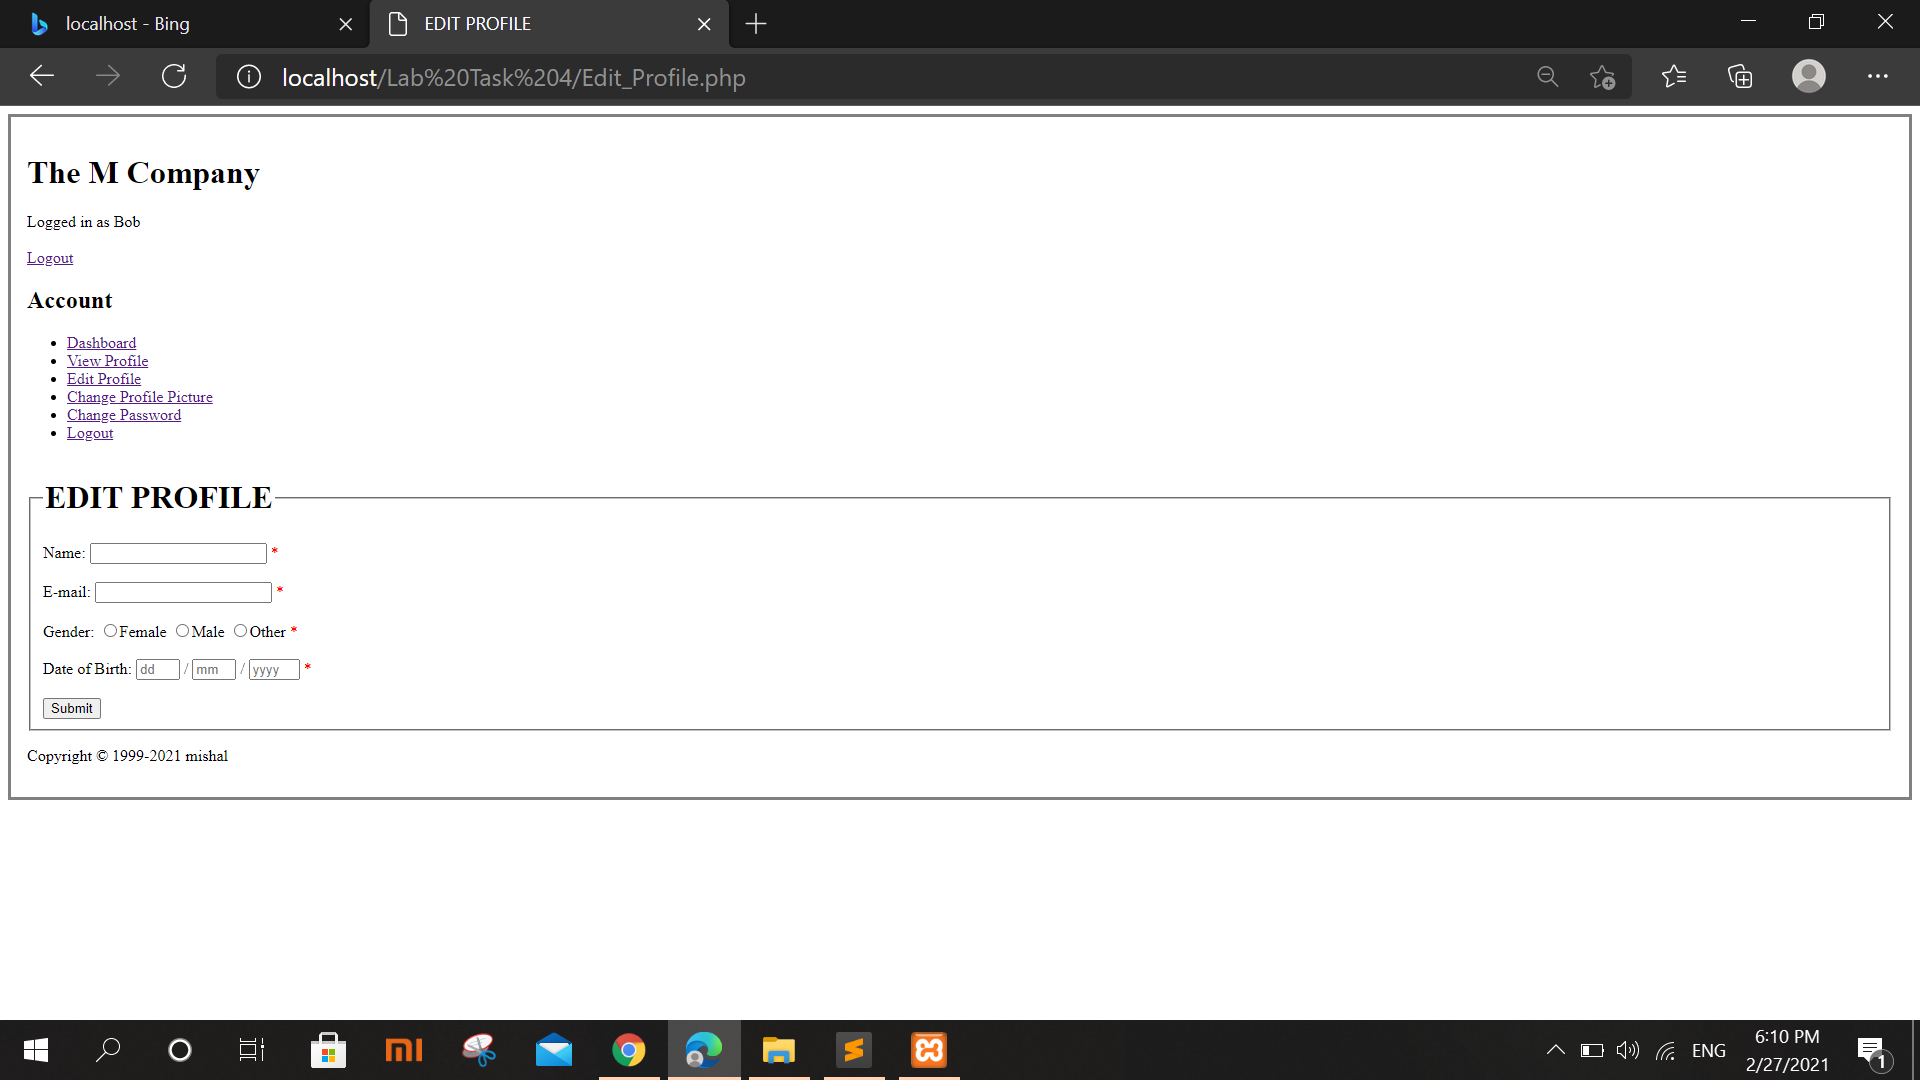
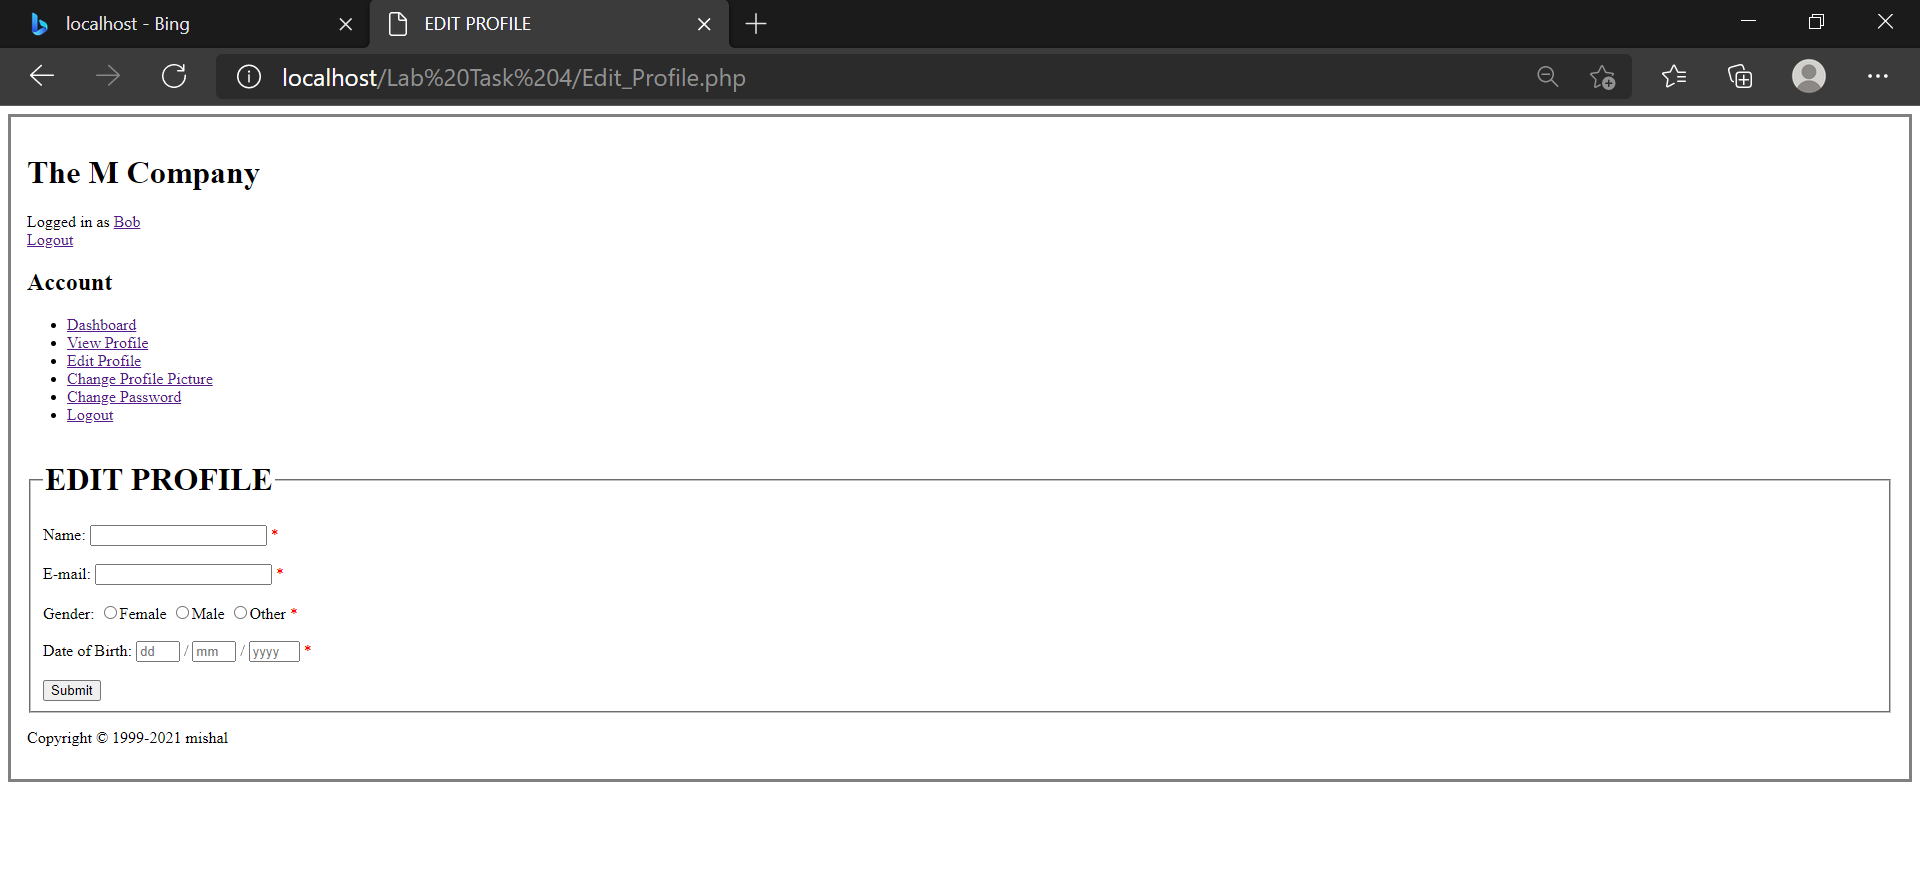
task completed

diff --git a/Lab Task 4/View_Profile.php b/Lab Task 4/View_Profile.php
@@ -11,6 +11,8 @@
 <title>VIEW PROFILE</title>
 <h1>The M Company</h1>
 
+
+Logged in as <a href= "Logged_in_dashboard.php">Bob</a>
 <?php 
 
 
@@ -18,7 +20,7 @@ session_start();
 
 if (isset($_SESSION['uname'])) {
 
-    echo "<a herf='Bob.php'>Logged in as Bob</a><br>";
+   
 	echo "<br><a href='Logout.php'>Logout</a><br>";
 
 	
@@ -72,12 +74,15 @@ else{
 <br><br>
 	  
 
-<?php 
+	  <div class="box" >
+      	<img src="profile.jpg" alt="" class="box-img">
+      </div>
 
-    echo "<a herf='Change_Profile_Picture.php'>Change</a><br>";
-	echo "<br><a href='Edit_Profile.php'>Edit Profile</a><br>";
 
-	?>
+<br><a href= "Change_Profile_Picture.php">Change</a><br>
+          
+<br><a href='Edit_Profile.php'>Edit Profile</a><br>
+
 
 </fieldset>
  <?php include 'footer.php';?>

diff --git a/Lab Task 4/Change_Profile_picture.php b/Lab Task 4/Change_Profile_picture.php
@@ -11,6 +11,8 @@
 <title>CHANGE PROFILE PICTURE</title>
 <h1>The M Company</h1>
 
+Logged in as <a href= "Logged_in_dashboard.php">Bob</a>
+
 <?php 
 
 
@@ -18,7 +20,7 @@ session_start();
 
 if (isset($_SESSION['uname'])) {
 
-    echo "<a herf='Bob.php'>Logged in as Bob</a><br>";
+   
 	echo "<br><a href='Logout.php'>Logout</a><br>";
 
 	
@@ -45,7 +47,12 @@ else{
 	<fieldset>
 	    <legend><h1>PROFILE PICTURE</h1></legend>
 <form action="upload.php" method="post" enctype="multipart/form-data">
-  Select image to upload:
+  
+
+  <div class="box" >
+      	<img src="profile.jpg" alt="" class="box-img">
+      </div>
+
   <input type="file" name="fileToUpload" id="fileToUpload">
   <br><br>
   <input type="submit" value="Submit" name="submit">

diff --git a/Lab Task 4/Logged_in_dashboard.php b/Lab Task 4/Logged_in_dashboard.php
@@ -11,14 +11,17 @@
 <title>LOGGED_IN_DASHBOARD</title>
 <h1>The M Company</h1>
 
-<?php 
+
+Logged in as <a href= "Logged_in_dashboard.php">Bob</a>
+
+   <?php 
 
 
 session_start();
 
 if (isset($_SESSION['uname'])) {
 
-    echo "<a herf='Bob.php'>Logged in as Bob</a><br>";
+    
 	echo "<br><a href='Logout.php'>Logout</a><br>";
 
 	
@@ -31,6 +34,10 @@ else{
 	}
 
  ?>
+	
+
+
+
 <h2>Account</h2>
 
 <ul> <li><a href= "Logged_in_dashboard.php">Dashboard</a></li>

diff --git a/Lab Task 4/Change_Password.php b/Lab Task 4/Change_Password.php
@@ -11,6 +11,9 @@
 <title>CHANGE PASSWORD</title>
 <h1>The M Company</h1>
 
+
+Logged in as <a href= "Logged_in_dashboard.php">Bob</a> 
+
 <?php 
 
 
@@ -18,7 +21,7 @@ session_start();
 
 if (isset($_SESSION['uname'])) {
 
-    echo "<a herf='Bob.php'>Logged in as Bob</a><br>";
+    
 	echo "<br><a href='Logout.php'>Logout</a><br>";
 
 	

diff --git a/Lab Task 4/Edit_Profile.php b/Lab Task 4/Edit_Profile.php
@@ -11,6 +11,9 @@
 <title>EDIT PROFILE</title>
 <h1>The M Company</h1>
 
+
+Logged in as <a href= "Logged_in_dashboard.php">Bob</a>
+
 <?php 
 
 
@@ -18,7 +21,7 @@ session_start();
 
 if (isset($_SESSION['uname'])) {
 
-    echo "<a herf='Bob.php'>Logged in as Bob</a><br>";
+    
 	echo "<br><a href='Logout.php'>Logout</a><br>";
 
 	
